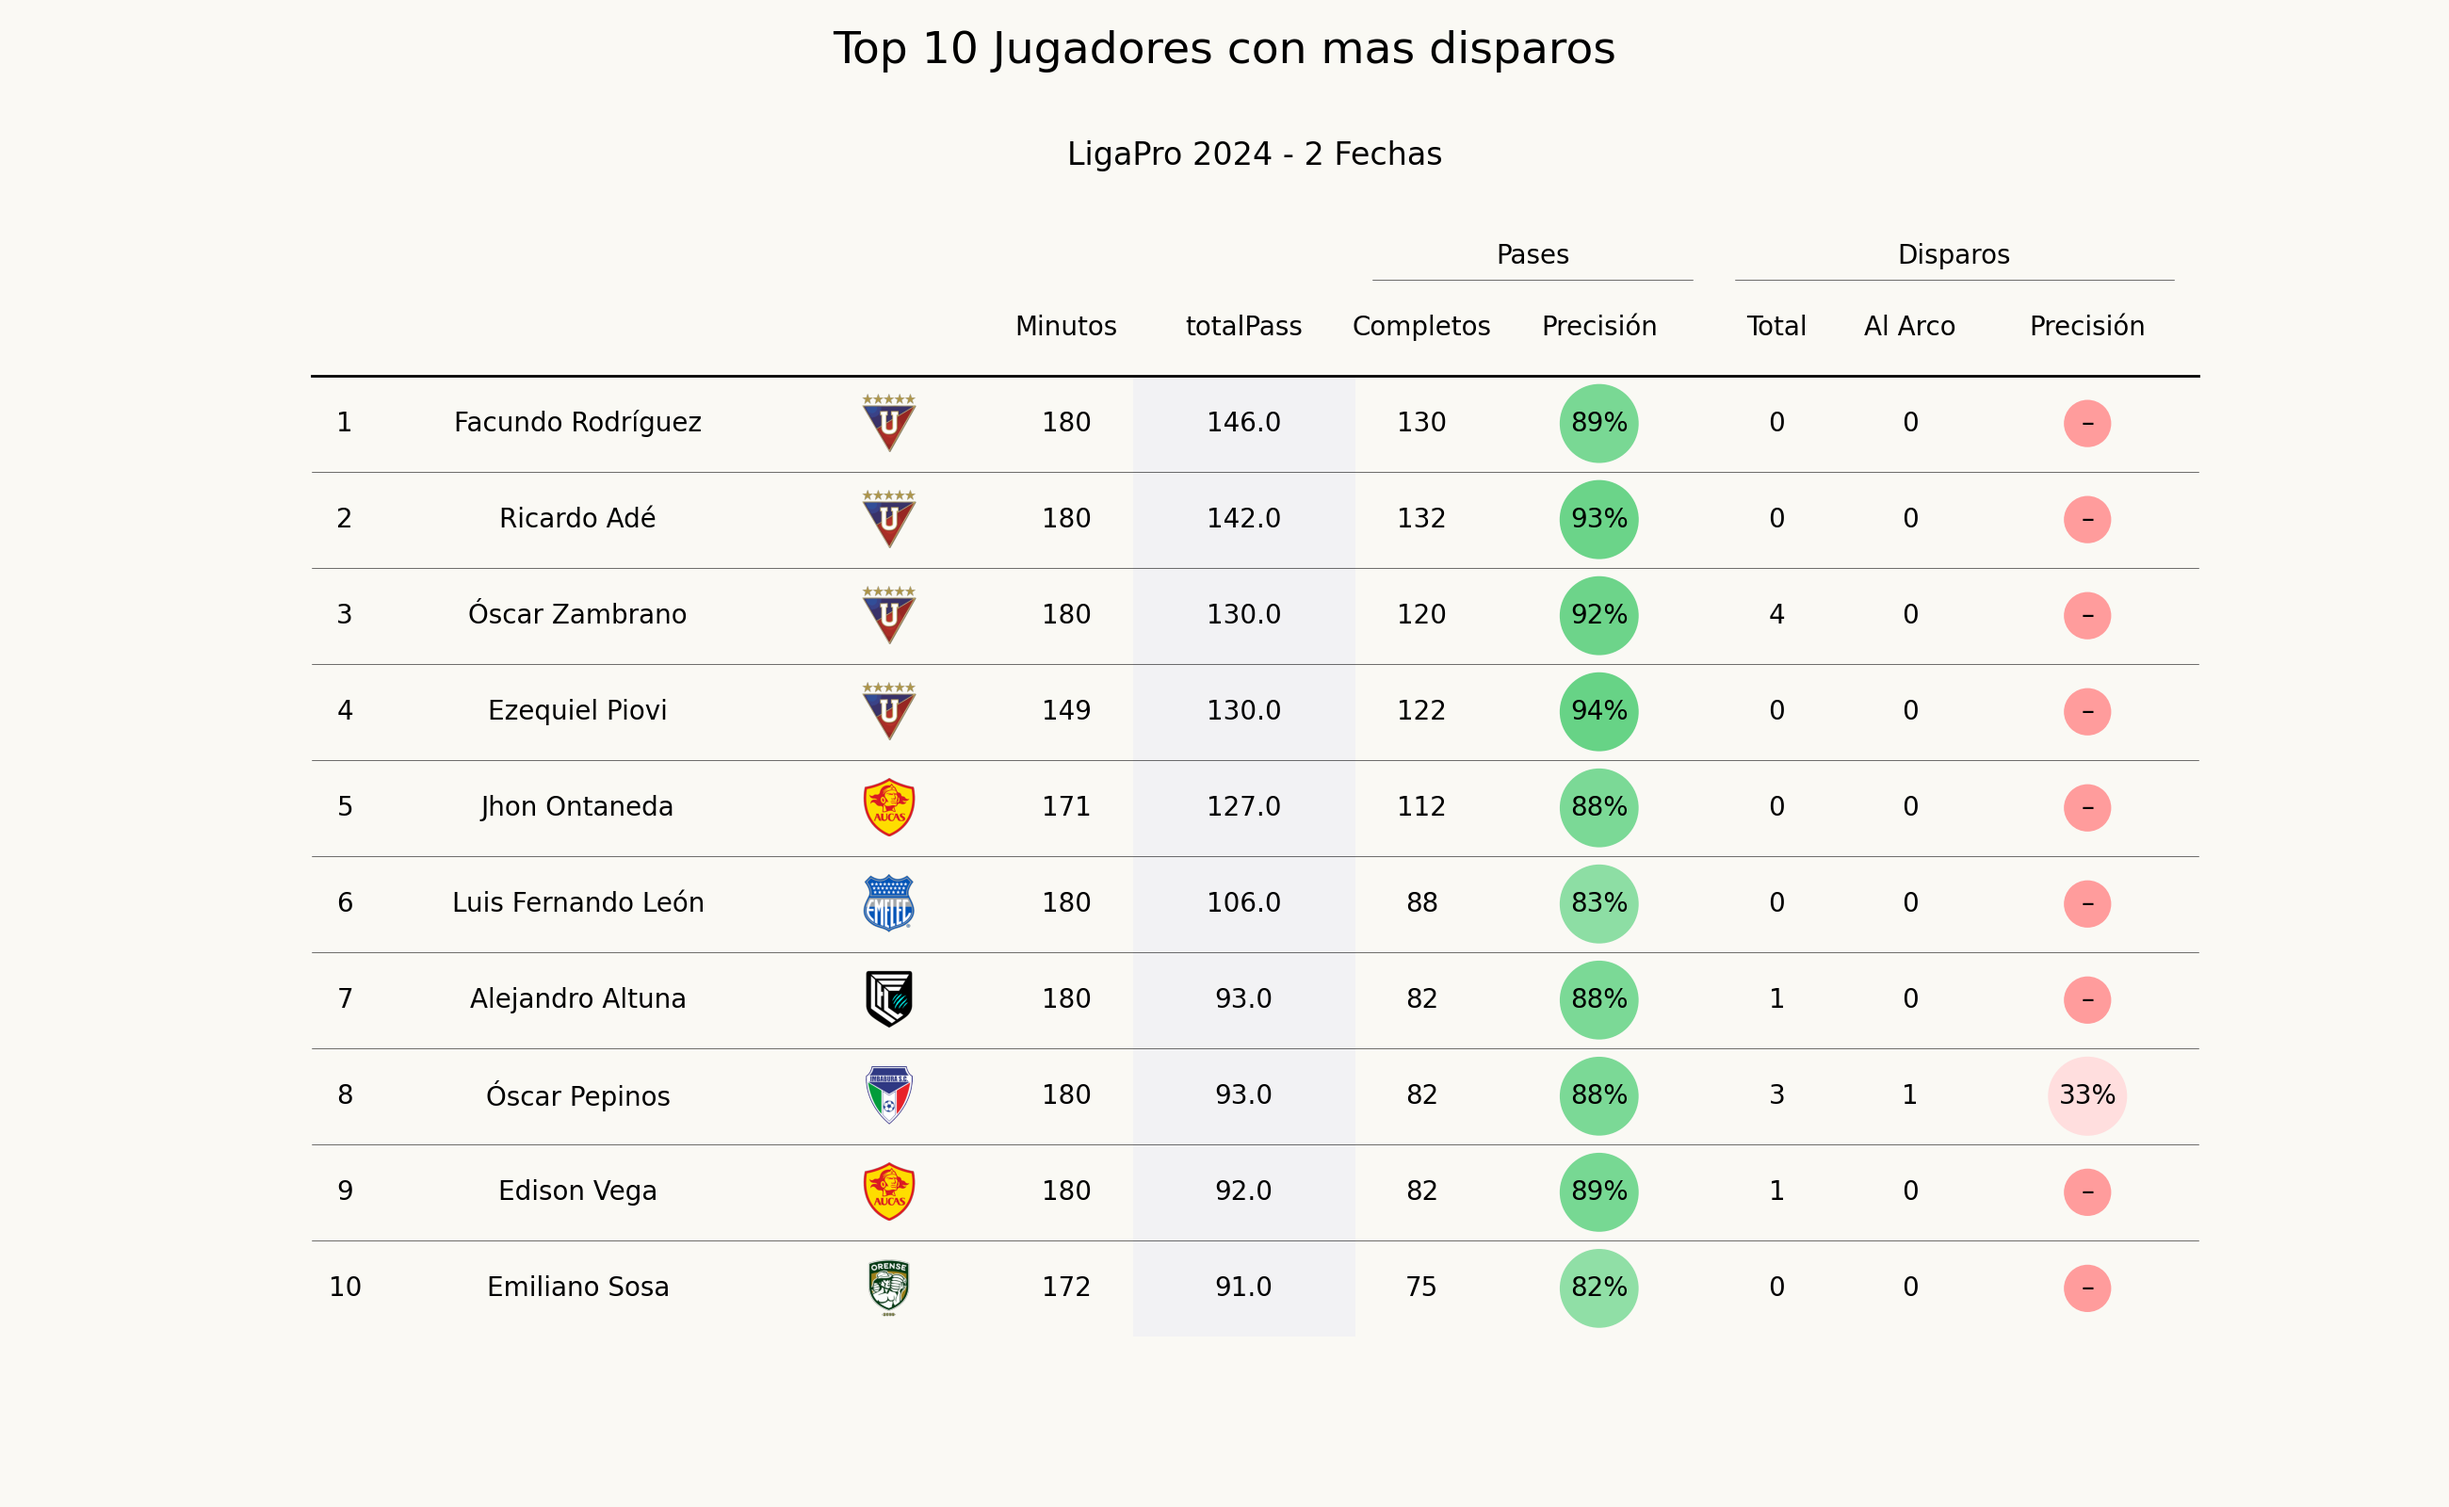
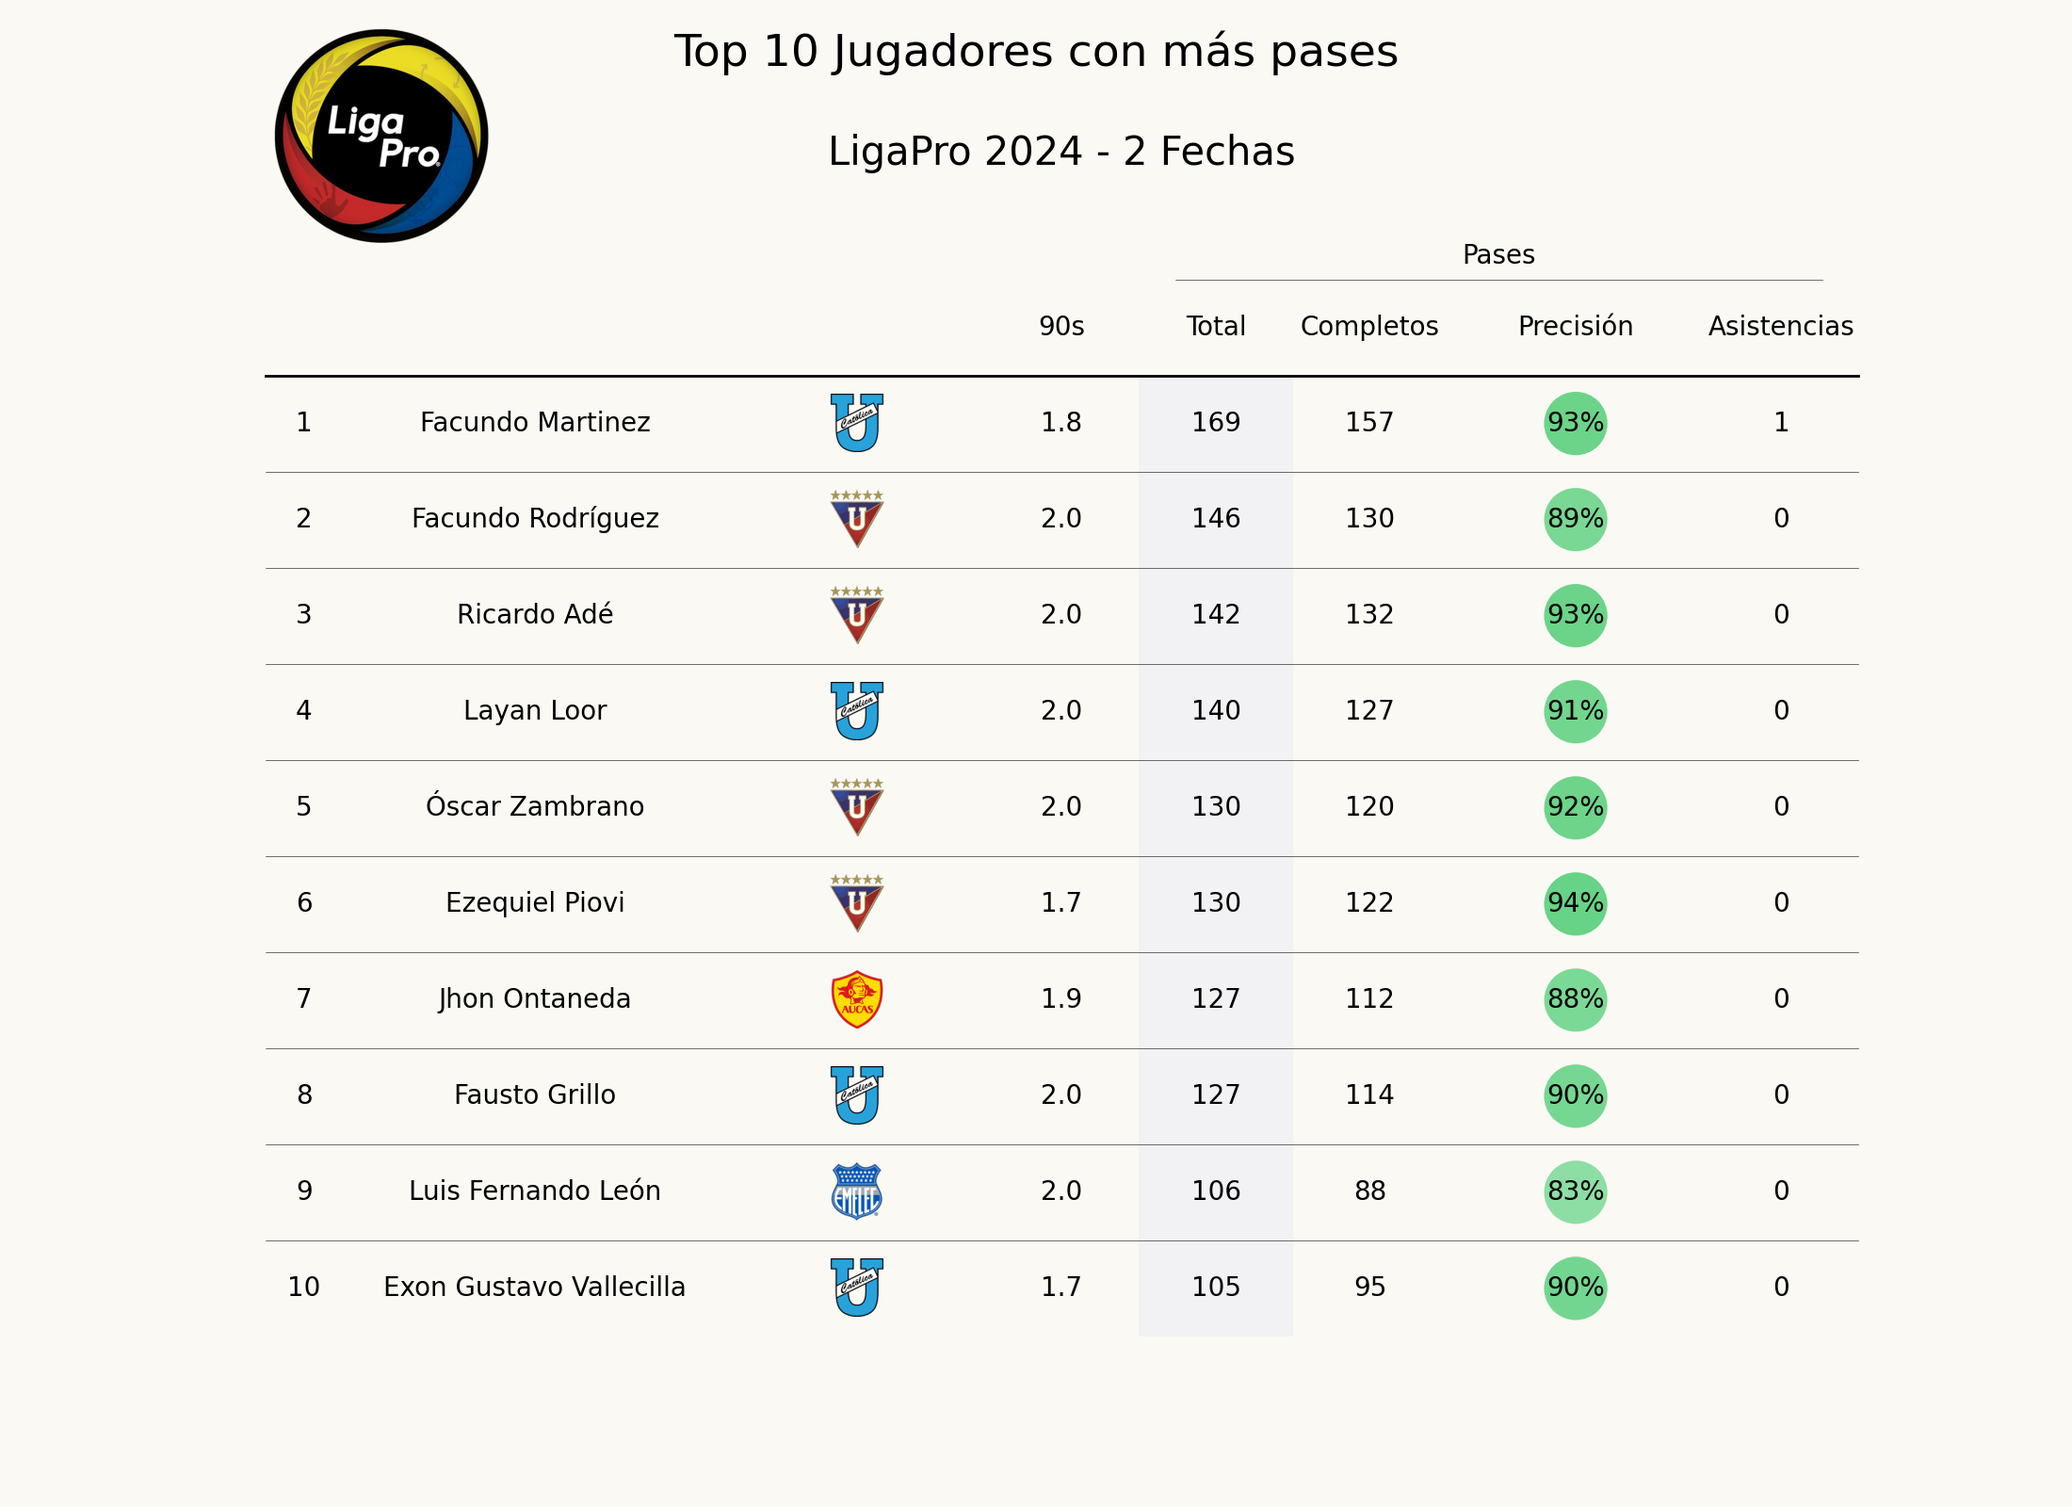
better table with most passes and most shots

diff --git a/create_tables.py b/create_tables.py
@@ -52,28 +52,32 @@ def team_name_to_path(fn):
     fp = os.path.join(img_path, f'{teams[fn]}.png')
     return fp
 
-def order_data(by):
-   
-    df = read_db()
-
-    select = ['player',
-            'team',
-            'minutesPlayed',
-            'totalPass',
-            'accuratePass',
-            'TotalShots',
-            'ShotOnTarget'
+def order_data(df, stat_type):
+    select = [
+        'player', 'team', 'minutesPlayed'
     ]
 
-    where = df['player'] == 'Leonar Espinoza'
+    if stat_type == 'totalPass':
+        select.append('totalPass')
+        select.append('accuratePass')
+        select.append('goalAssist')
+
+        order_by = 'totalPass'
+
+    elif stat_type == 'TotalShots':
+        select.append('TotalShots')
+        select.append('ShotOnTarget')
+        select.append('goals')
+
+
+        order_by = 'TotalShots'
+
     group_by = ['team','player']
-    order_by = by
     limit = 10
 
     if order_by not in select:
         select.append(order_by)
 
-    # new_df = new_df[where]
     df = df[select]
     df = df.groupby(group_by).sum()
     df = df.sort_values(order_by, ascending=False)
@@ -87,13 +91,14 @@ def order_data(by):
     df.index += 1
 
     # Add percentages
-    # - Pass Accuracy
-    pass_accuracy = (df['accuratePass'] / df['totalPass'])
-    df.insert(5, 'PassAccuracy', pass_accuracy)
-
-    # - Shot on Target %
-    shot_on_target = (df['ShotOnTarget'] / df['TotalShots'])
-    df.insert(len(df.columns), 'SoT_percent', shot_on_target)
+    if stat_type == 'totalPass':
+        # - Pass Accuracy
+        pass_accuracy = (df['accuratePass'] / df['totalPass'])
+        df.insert(len(df.columns)-1, 'PassAccuracy', pass_accuracy)
+    elif stat_type == 'TotalShots':
+        # - Shot on Target %
+        shot_on_target = (df['ShotOnTarget'] / df['TotalShots'])
+        df.insert(len(df.columns)-1, 'SoT_percent', shot_on_target)
 
     # Replace NaNs with 0
     df = df.fillna(0)
@@ -101,160 +106,196 @@ def order_data(by):
     # Change team names to logo images filepaths for plottable
     df['team'] = df['team'].apply(team_name_to_path)
 
+    df['minutesPlayed'] = df['minutesPlayed'] / 90
+
     return df
 
-def plot_table(df, by, output_fn):
-    cmap = LinearSegmentedColormap.from_list(
-        name="bugw", colors=["#ffffff", "#f2fbd2", "#c9ecb4", "#93d3ab", "#35b0ab"], N=256
-    )
+def plot_table(df, stat_type, output_fn):
 
+    # --------------------------------------- Figure
+    bg_color = '#faf9f4'
+
+     # Table
+    fig, ax = plt.subplots(nrows=1, ncols=1, figsize=(11, 8))
+    ax.set_facecolor(bg_color)
+
+    # Axis for title
+    h = 0.1
+    ax_title = fig.add_axes([0, 0.9, 1, h], zorder=1)
+    ax_title.axis('off')
+
+    col_defs = get_col_defs(stat_type)
+
+    tab = Table(df,
+                ax=ax,
+                column_definitions=col_defs,
+                textprops={
+                    "ha": "center",
+                    },
+                )
+    
+    if stat_type=='shot':
+        fig.suptitle('Top 10 Jugadores con más disparos', fontsize=17)
+    elif stat_type=='pass':
+        fig.suptitle('Top 10 Jugadores con más pases', fontsize=17)
+
+    ax.set_title('LigaPro 2024 - 2 Fechas', fontsize=15)
+
+    # -- Transformation functions (thanks Son of a corner)
+    DC_to_FC = ax_title.transData.transform
+    FC_to_NFC = fig.transFigure.inverted().transform
+    # Transform for title axes
+    ax_title_tf = lambda x: FC_to_NFC(DC_to_FC(x))
+
+    # Add team logo
+    ax_coords = ax_title_tf((0.205, 0.1))
+    ax_size = 0.155
+    image = Image.open(os.path.join('data', 'logos', 'lp.png'))
+    newax = fig.add_axes(
+        [ax_coords[0]-ax_size/2, ax_coords[1]-ax_size/2, ax_size, ax_size],
+        anchor='W', zorder=1
+    )
+    newax.imshow(image)
+    newax.axis('off')
+
+    fig.savefig(f"images/{output_fn}", facecolor=ax.get_facecolor(), dpi=200)
+
+
+def get_col_defs(stat_type):
+       
     cmap_test = LinearSegmentedColormap.from_list(
         # name="bugw", colors=["#ffffff", "#f2fbd2", "#c9ecb4", "#93d3ab", "#35b0ab"], N=256
         name="bugw", colors=["#FF9C9C", "#FFFFFF", "#53CD76"], N=256
     )
 
     cmap1 = LinearSegmentedColormap.from_list(
-        name="gray", colors=[
+        name="gray",
+        colors=[
             "#f2f2f4",
             "#f2f2f4",
             ], N=256
     )
 
-    percents_cmap = matplotlib.colormaps.get_cmap('RdYlGn')
-
     data_width = 0.6
     percent_width = 1
-    col_defs = (
-        [
-            ColumnDefinition(
+
+    col_defs = [
+        ColumnDefinition(
             name='index',
             title='',
             width=0.3,
             ),
 
+        ColumnDefinition(
+            name='player',
+            title='',
+            width=1.5,
+            ),
 
-            ColumnDefinition(
-                name='player',
-                title='',
-                width=1.8,
-                ),
+        ColumnDefinition(
+            name='team',
+            title='',
+            plot_fn=image,
+            width=1,
+            ),
 
-            ColumnDefinition(
-                name='team',
-                title='',
-                plot_fn=image,
-                width=1,
-                # border='left',
-                ),
+        ColumnDefinition(
+            name='minutesPlayed',
+            title='90s',
+            formatter="{:.1f}",
+            width=data_width,
+            )
+        ]
 
-            ColumnDefinition(
-                name='minutesPlayed',
-                title='Minutos',
-                formatter="{:.0f}",
-                width=data_width,
-                # border='left',
-                ),
+    if stat_type == 'pass':
+        stats_col_defs = [
+        ColumnDefinition(
+            name='totalPass',
+            title='Total',
+            formatter="{:.0f}",
+            group="Pases",
+            width=data_width,
+            cmap=cmap1,
+            ),  
 
-            ColumnDefinition(
-                name='totalPass',
-                title='Pases',
-                formatter="{:.0f}",
-                group="Pases",
-                width=data_width,
-                # border='left',
-                ),
+        ColumnDefinition(
+            name='accuratePass',
+            title='Completos',
+            formatter="{:.0f}",
+            group="Pases",
+            width=data_width,
+            ),
 
-            ColumnDefinition(
-                name='accuratePass',
-                title='Completos',
-                formatter="{:.0f}",
-                group="Pases",
-                width=data_width,
-                # border='left',
-                ),
+        ColumnDefinition(
+            name='PassAccuracy',
+            title='Precisión',
+            formatter=decimal_to_percent,
+            group="Pases",
+            cmap=cmap_test,
+            width=percent_width,            
+            textprops= {"bbox": {"boxstyle": "circle", "pad": 0.05}},
+            ),
 
+        ColumnDefinition(
+            name='goalAssist',
+            title='Asistencias',
+            formatter="{:.0f}",
+            group="Pases",
+            width=data_width,
+            ) 
+        ] 
 
-            ColumnDefinition(
-                name='PassAccuracy',
-                title='Precisión',
-                formatter=decimal_to_percent,
-                group="Pases",
-                cmap=cmap_test,
-                width=percent_width,            
-                textprops= {"bbox": {"boxstyle": "circle", "pad": 0.35}},
-                # border='left',
-                ),
-
+            
+    elif stat_type == 'shot':
+        stats_col_defs = [
             ColumnDefinition(
                 name='TotalShots',
                 title='Total',
                 formatter="{:.0f}",
-                group="Disparos",
+                group="Tiros",
                 width=data_width,
-                # cmap=cmap1,
-                # border='left',
+                cmap=cmap1,
                 ),
 
             ColumnDefinition(
                 name='ShotOnTarget',
                 title='Al Arco',
                 formatter="{:.0f}",
-                group="Disparos",
+                group="Tiros",
                 width=data_width,
-                # border='left',
                 ),
 
             ColumnDefinition(
                 name='SoT_percent',
                 title='Precisión',
                 formatter=decimal_to_percent,
-                group="Disparos",
+                group="Tiros",
                 cmap=cmap_test,
-                textprops= {"bbox": {"boxstyle": "circle", "pad": 0.35}},
+                textprops= {"bbox": {"boxstyle": "circle", "pad": 0.05}},
                 width=percent_width,
                 ),
-        ] 
-        + [
+
             ColumnDefinition(
-                name=by,
-                cmap=cmap1,
-                )
+                    name='goals',
+                    title='Goles',
+                    formatter="{:.0f}",
+                    group="Tiros",
+                    width=data_width,
+                    ) 
         ]
-    )
 
-    # col_defs.
+    for stat in stats_col_defs:
+        col_defs.append(stat)
 
-
-    # Table
-    fig, ax = plt.subplots(figsize=(13, 8))
-    
-    bg_color = '#faf9f4'
-    # fig.patch.set_facecolor('red')
-    ax.set_facecolor(bg_color)
-
-    tab = Table(df,
-                column_definitions=col_defs,
-                # cell_kw={'facecolor': 'red'}
-                textprops={
-                    "ha": "center",
-                    },
-                )
-
-    fig.suptitle('Top 10 Jugadores con mas disparos', fontsize=17)
-    ax.set_title('LigaPro 2024 - 2 Fechas')
-
-    fig.savefig(f"images/{output_fn}", facecolor=ax.get_facecolor(), dpi=200)
-
+    return col_defs    
 
 if __name__ == "__main__":
 
-    top_stat = 'TotalShots'
-    filename = 'total_shots.png'
-    df = order_data(top_stat)
-    plot_table(df, top_stat, filename)
+    df = read_db()
 
-    top_stat = 'totalPass'
-    filename = 'total_passes.png'
-    df = order_data(top_stat)
-    plot_table(df, top_stat, filename)
+    # --------------------------------------- Add Tables
+    df_pass = order_data(df, 'totalPass')
+    plot_table(df_pass, 'pass', 'total_passes.png')
 
+    df_shot = order_data(df, 'TotalShots')
+    plot_table(df_shot, 'shot', 'total_shots.png')
